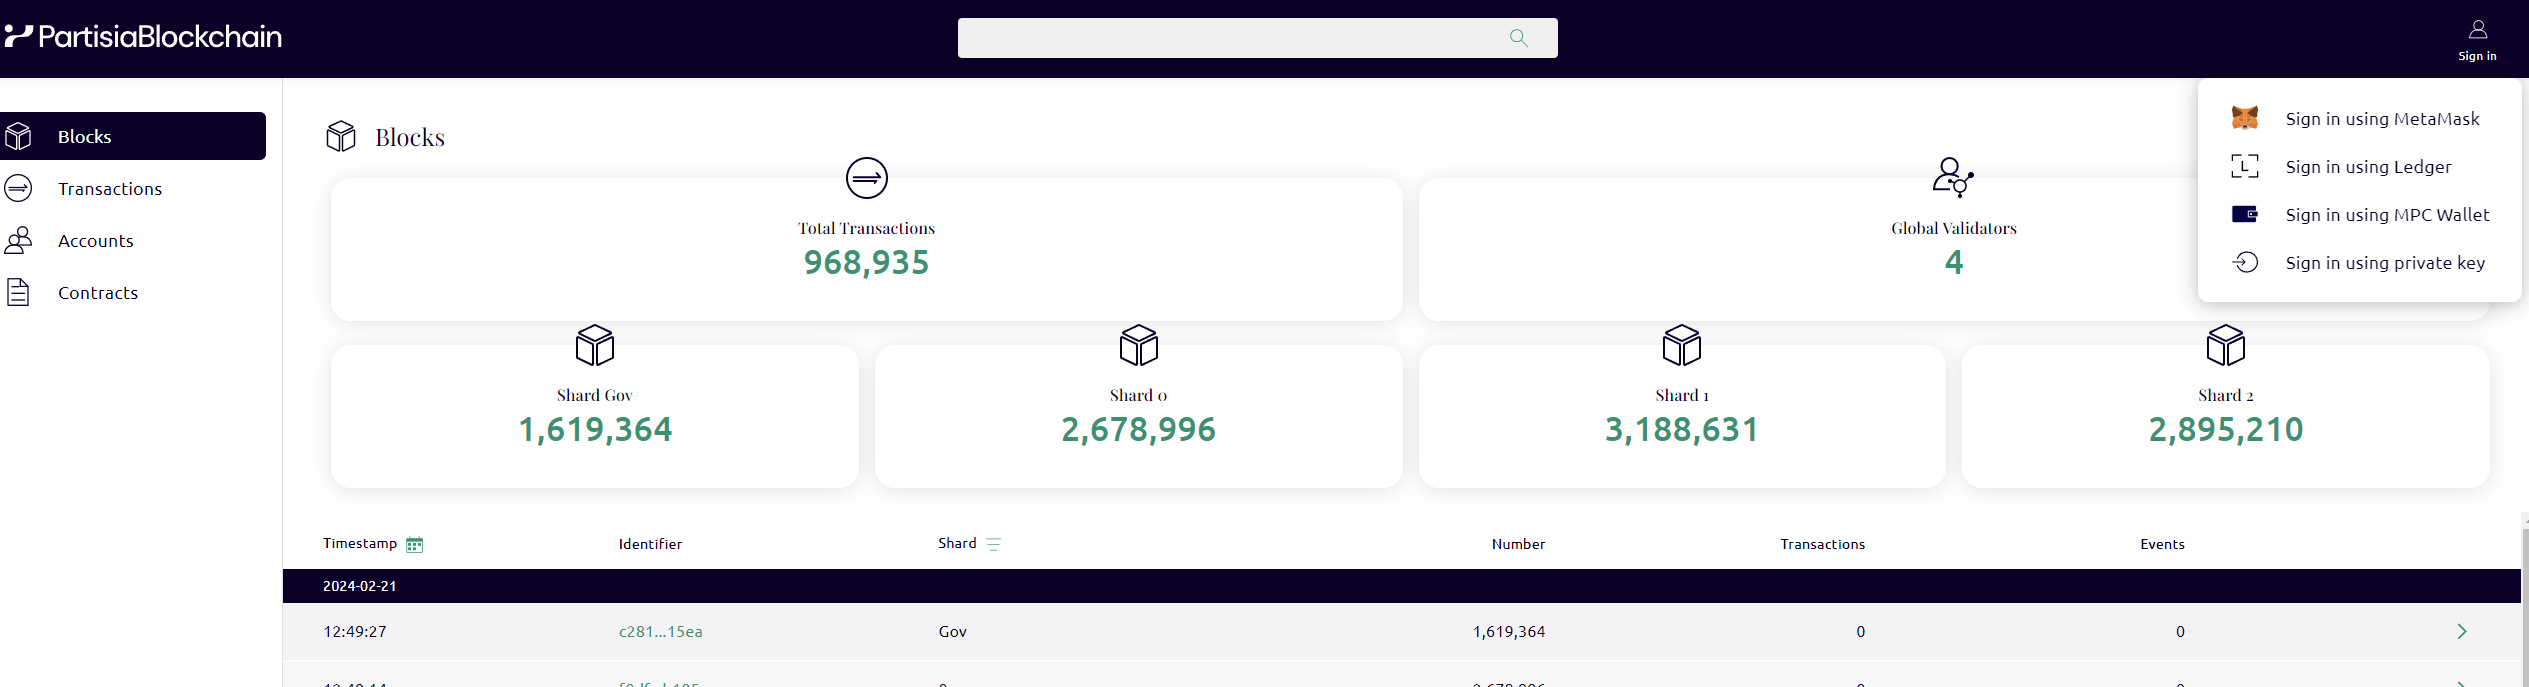
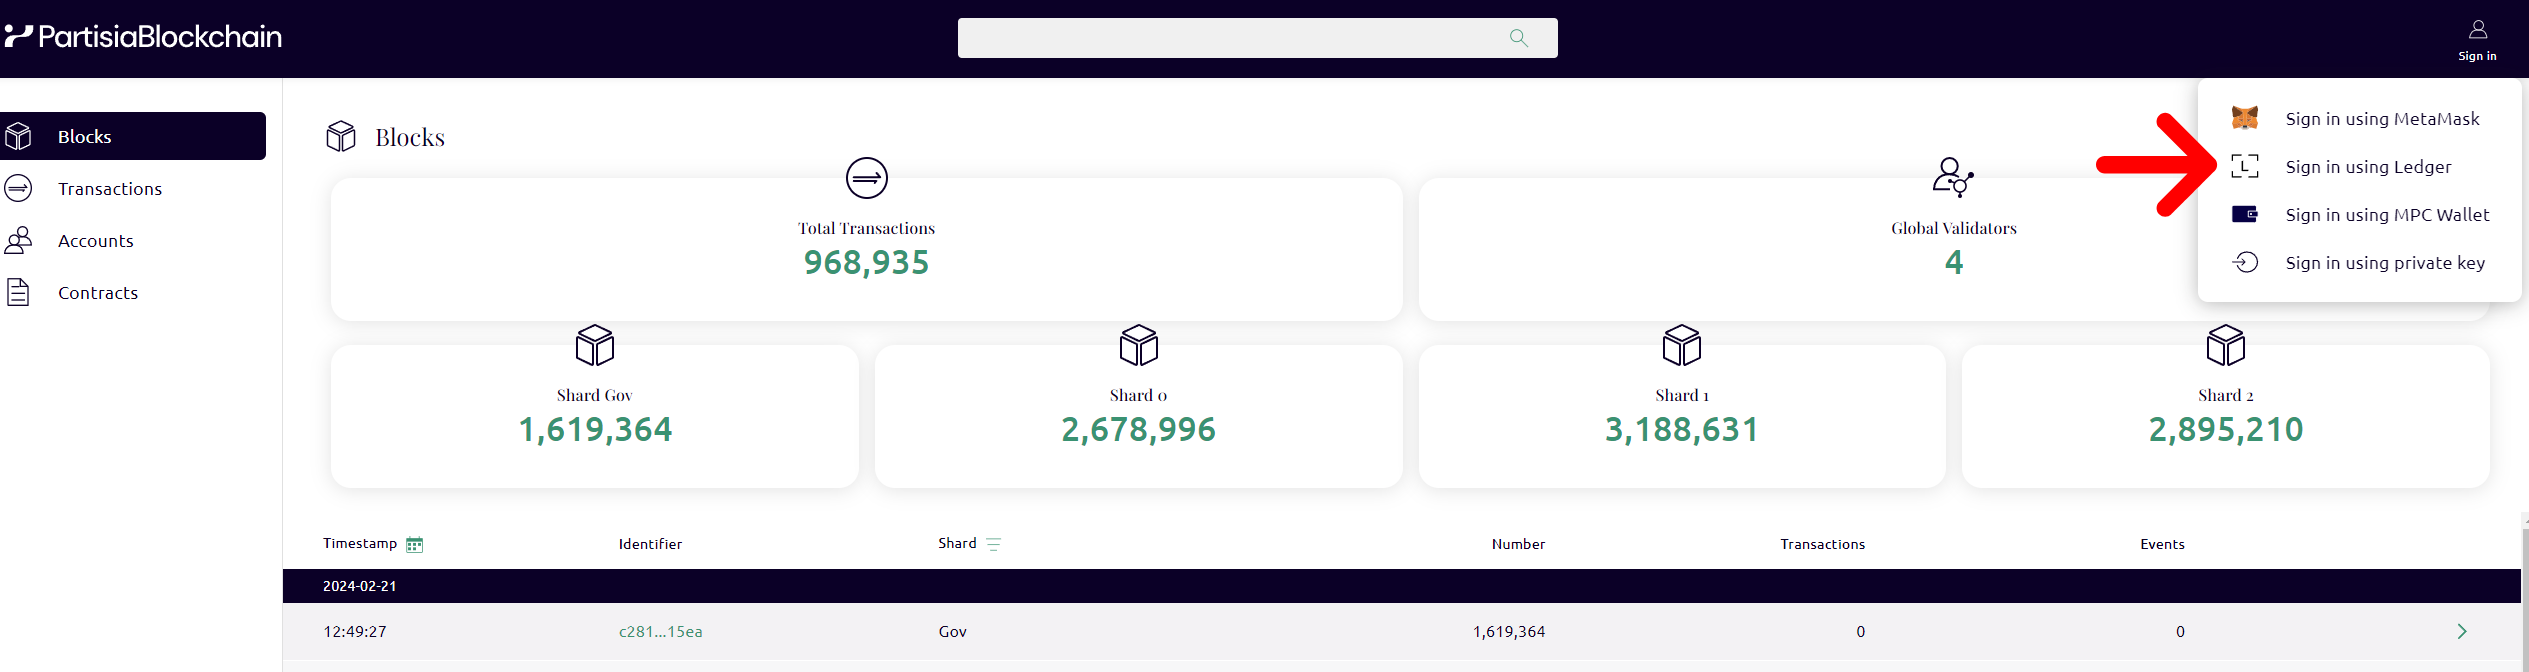
making login-menu screenshoter smaller

diff --git a/docs/smart-contracts/integration/ledger/ledger-content.md b/docs/smart-contracts/integration/ledger/ledger-content.md
@@ -21,8 +21,20 @@ Setup instructions:
 For a web app: how to connect the Ledger device.
 ## How to connect the Ledger device with Partisia Blockchain Browser?
 To connect your device with the Browser you need to have gone through all steps in the above guide. 
-1. Login on your Ledger device 
-![login(1)-enter-pin.jpg](login%281%29-enter-pin.jpg)
+1. Enter the pin on your Ledger device 
+![login(1)-enter-pin.png](login%281%29-enter-pin.png)
+
+2. Choose Partisia Blockchain in the Choose app setting
+![login(2)-choose-app.png](login%282%29-choose-app.png)
+
+3. App is now ready and we can move over to the PC to visit [the Browser](https://browser.partisiablockchain.com)
+
+4. In the top right corner of the Browser you can click _Sign In_ this gives you a menu where you can click _Sing in using Ledger_
+![login(4)-login menu.png](login%284%29-login%20menu.png)
+
+5. You can now see a quick loading screen coming up where it signs you into your Partisia Blockchain Browser with the Ledger device.
+![login(5)-logging in.png](login%285%29-logging%20in.png)
+
 
 For installable app: how to download and install it, how to connect to it.
 Where to view account balance.
